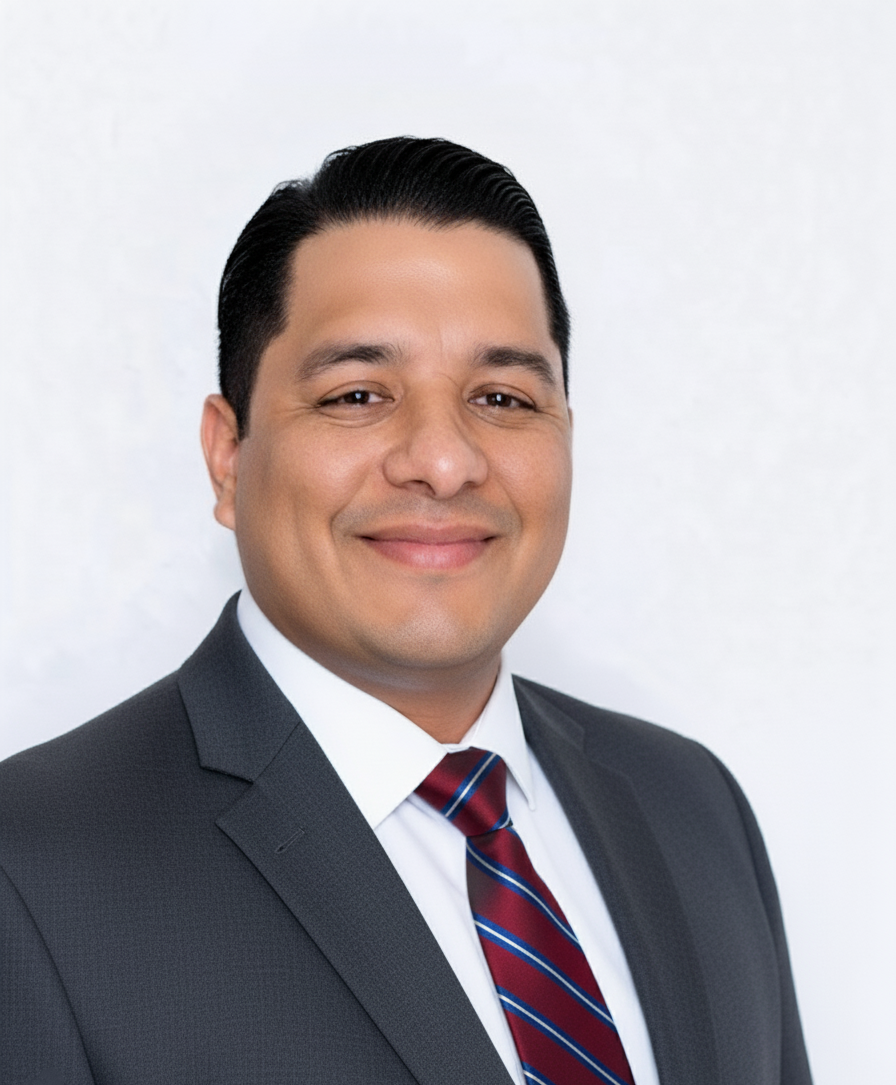
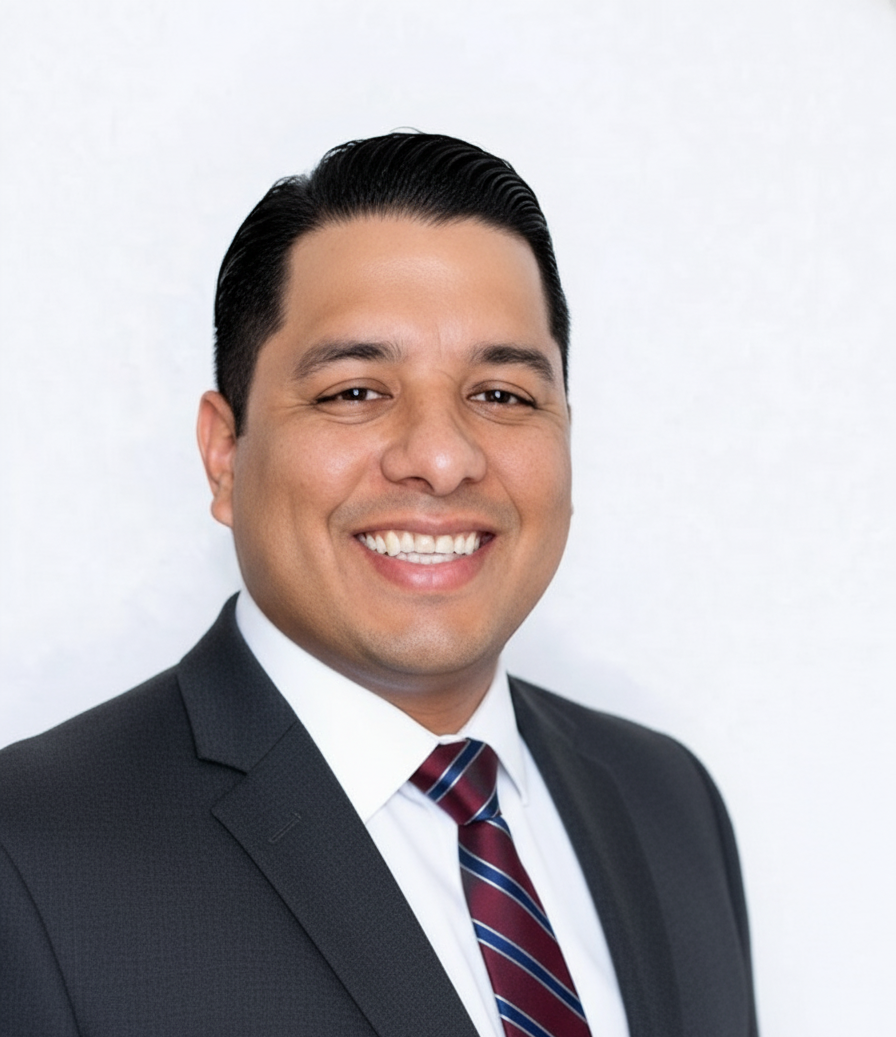
Add files via upload

diff --git a/assets/style.css b/assets/style.css
@@ -308,8 +308,18 @@ footer {
     box-shadow: 0 5px 15px rgba(0, 0, 0, 0.2);
 }
 
+.main-content h1 {
+    font-size: 4rem;
+    color: var(--accent);
+    margin-top: 2.5rem;
+    margin-bottom: 1.5rem;
+    /* border-bottom: 2px solid var(--border-color);*/
+    /*padding-bottom: 0.5rem;*/
+}
+
 .main-content h2 {
     font-size: 2rem;
+    text-align: center;
     color: var(--accent);
     margin-top: 2.5rem;
     margin-bottom: 1.5rem;
@@ -342,6 +352,23 @@ footer {
     margin-bottom: 0.5rem;
 }
 
+#coming-soon-title {
+    /* Center the text within the <h1> element */
+    text-align: center; 
+    
+    /* Remove the full-width border-bottom which looks odd when text is centered */
+    border-bottom: none; 
+    
+    /* Make it a little bigger/more dramatic */
+    font-size: 5rem;
+    
+    /* Center the <h1> block horizontally by setting margins, if needed, though text-align is usually enough */
+    margin-left: auto;
+    margin-right: auto;
+    
+    /* Make the color stand out */
+    color: var(--accent-light); 
+}
 
 /* Responsive Adjustments for Sub-Pages */
 @media (max-width: 768px) {
@@ -601,3 +628,12 @@ footer {
     transform: translateY(-2px);
     box-shadow: 0 6px 12px rgba(0, 123, 255, 0.5);
 }
+
+/* Define --card-background and --input-background in your :root if not already */
+/* :root {
+    --card-background: #1e1e1e;
+    --input-background: #2a2a2a;
+    --text-color: #e0e0e0;
+    --light-text-color: #a0a0a0;
+    --border-color: #444;
+} */
